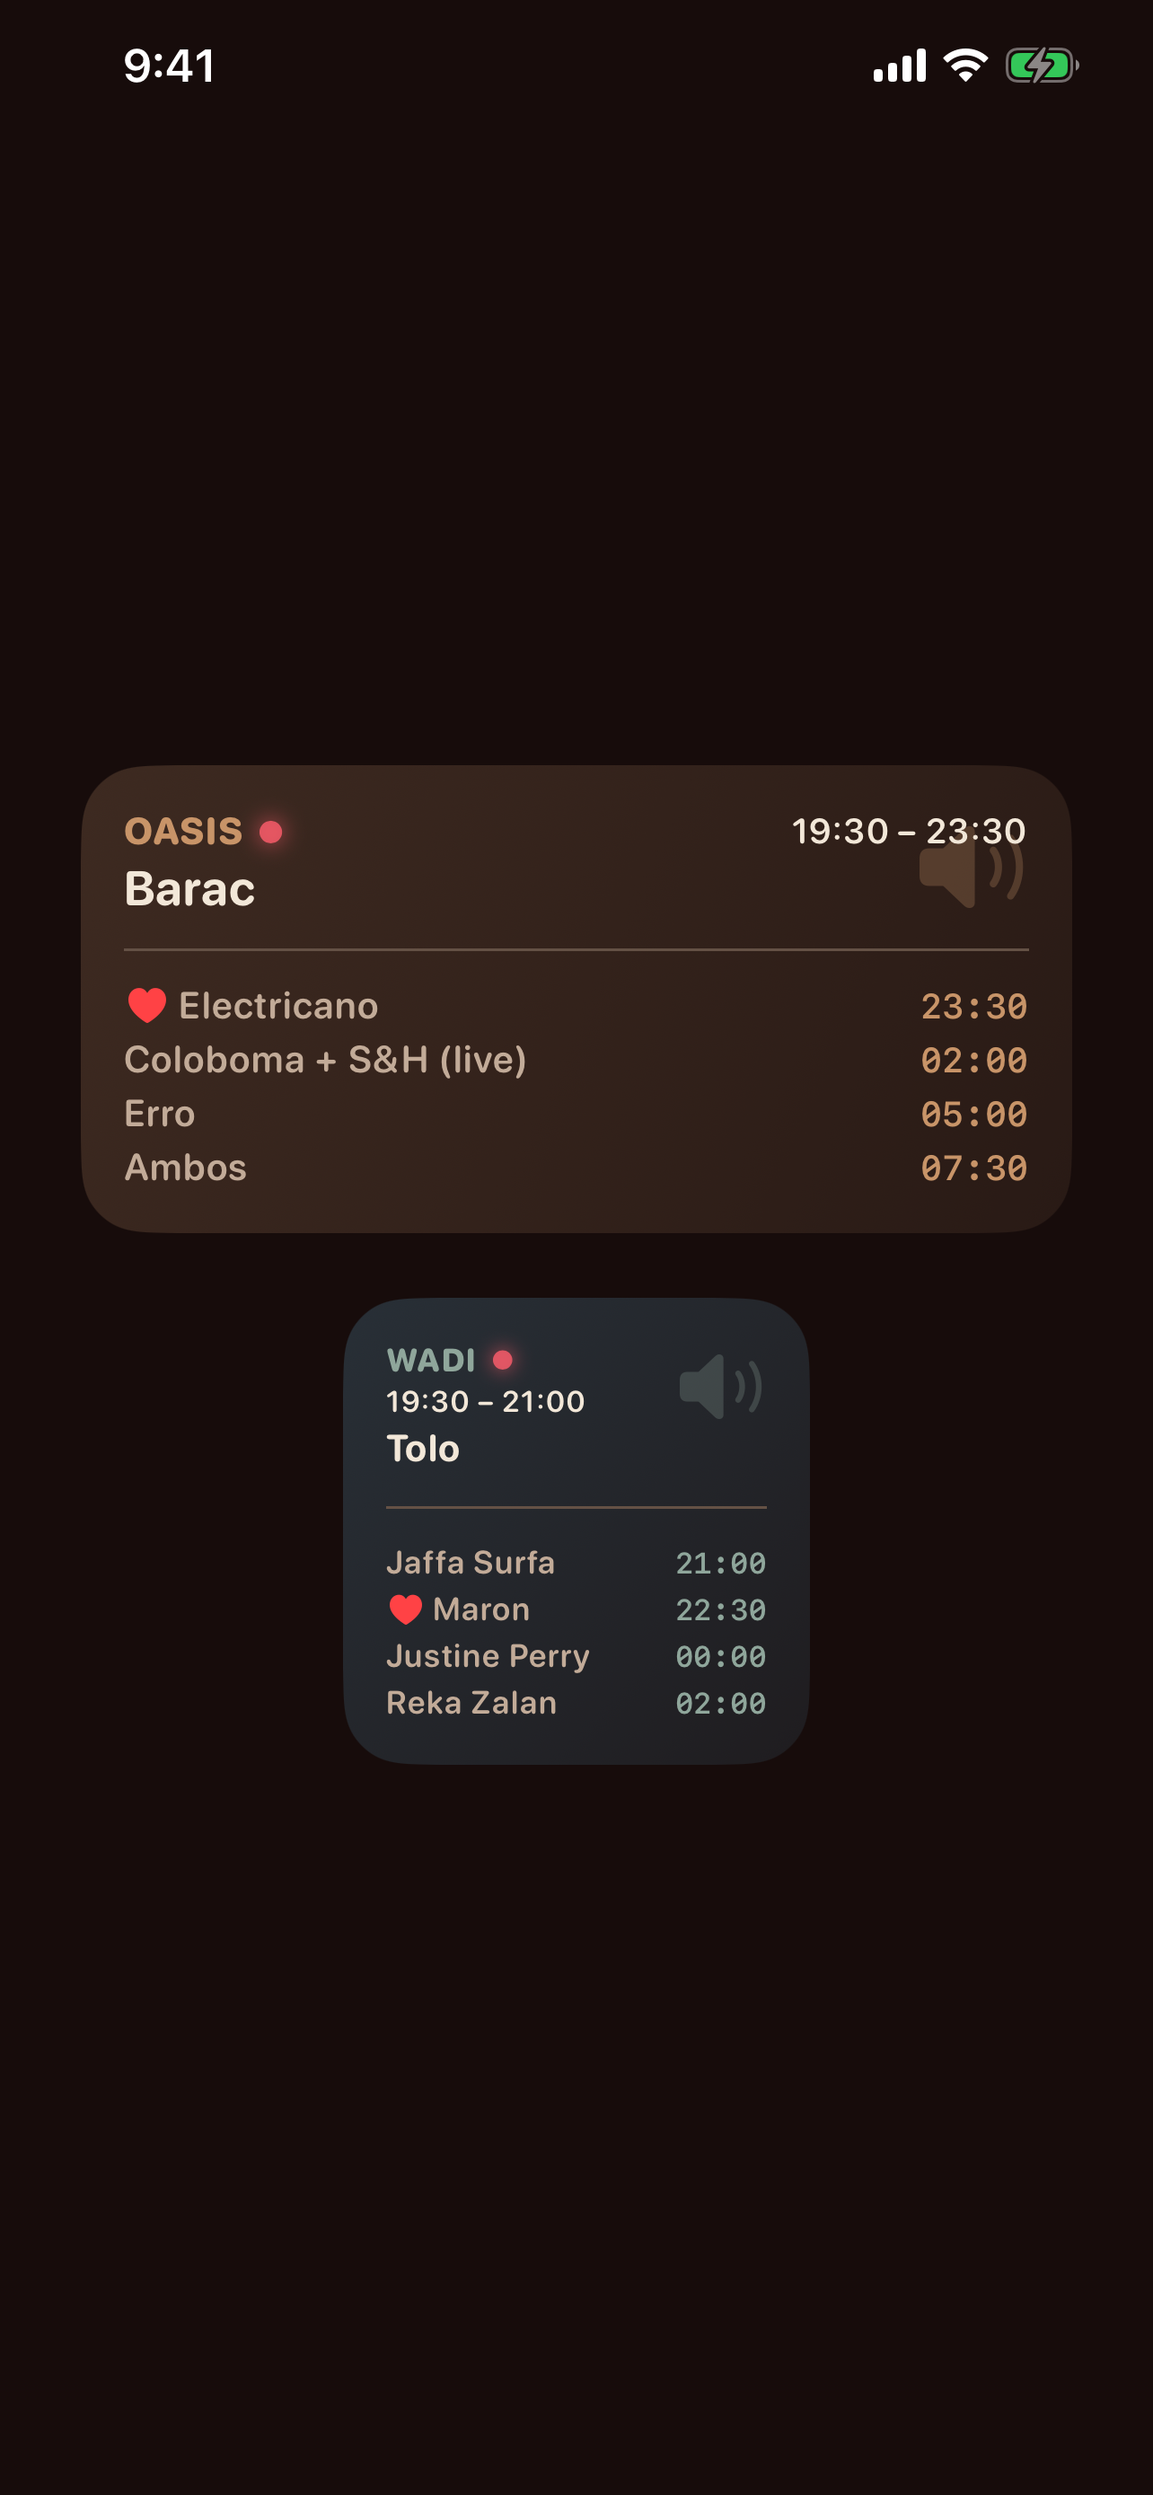
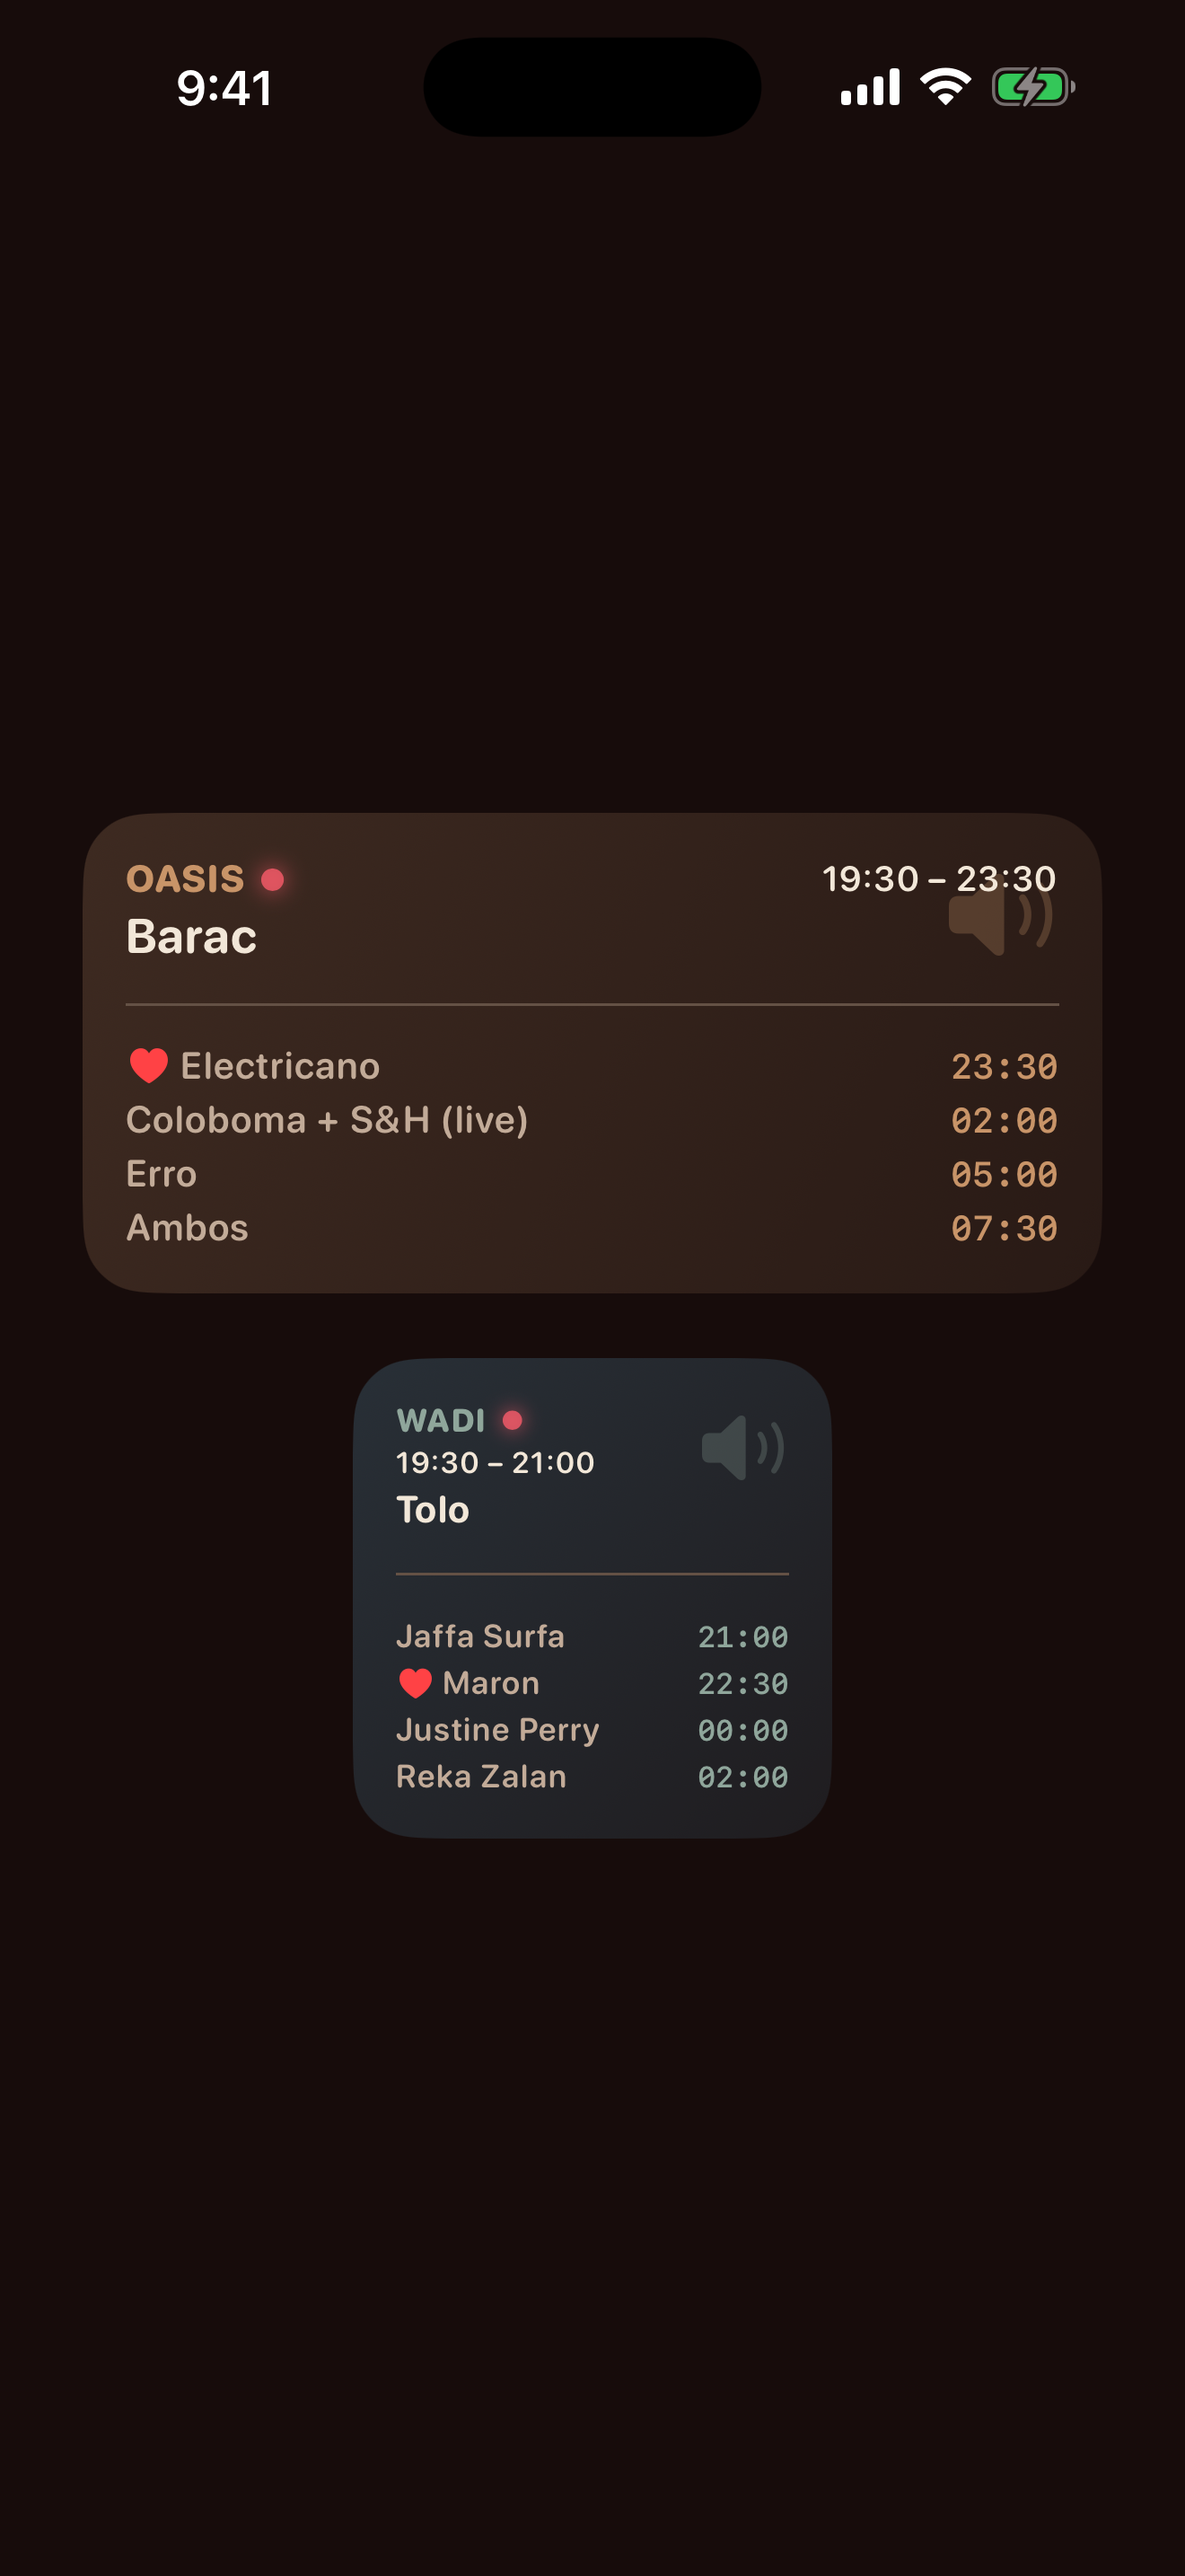
build(apple): capture App Store screenshots at 6.9 inch
App Store Connect requires the 1320×2868 slot (APP_IPHONE_67); the 6.5" captures
we had upload successfully and then fail asynchronous validation minutes later
with IMAGE_INCORRECT_DIMENSIONS, which reads as a silent success until you
re-query assetDeliveryState. The harness now shoots on an iPhone 17 Pro Max.

STORE_LISTING.md records the four things that blocked the 1.0 submission, since
the API answers all of them with the same opaque "not in valid state": missing
app availability, empty content-rights declaration, the screenshot size, and the
socialMedia age-rating answer the API never lists as required.

diff --git a/apple/STORE_LISTING.md b/apple/STORE_LISTING.md
@@ -6,6 +6,26 @@ limits. The privacy/support URLs point at the deployed pwa.
 > **Unofficial fan app.** Keep all wording referential ("guide for"); never imply
 > it is the official festival app. See `../CLAUDE.md` and the in-app disclaimer.
 
+## Submission gotchas (learned the hard way on 1.0)
+
+The API reports "appStoreVersions … is not in valid state" for *every* missing
+piece, without saying which. What actually blocked 1.0, in the order found:
+
+1. **App availability was never set** — a brand-new app record has no territories
+   at all (`GET /v2/appAvailabilities/<id>` → 404). Set it before anything else.
+2. **Content rights declaration was empty** — app-level
+   `contentRightsDeclaration`, not part of any version.
+3. **Screenshots must be 6.9" (1320×2868)** for the `APP_IPHONE_67` slot. A 6.5"
+   capture (1284×2778) *uploads fine* and only fails minutes later, asynchronously:
+   `assetDeliveryState.state = FAILED, IMAGE_INCORRECT_DIMENSIONS`. Always re-read
+   the state after uploading. 6.5" alone does not satisfy the requirement.
+   `screenshots.yaml` now captures on an iPhone 17 Pro Max for this reason.
+4. **Age rating: `socialMedia` and `userGeneratedContent`** must be answered, but
+   the API's "missing required attribute" error does *not* list `socialMedia` —
+   only the web questionnaire shows it. Check both after a PATCH.
+
+The watch slot `APP_WATCH_ULTRA` does accept the Ultra 3's 422×514 captures.
+
 ## URLs
 - **Privacy Policy URL:** https://microasis.torma.ai/privacy
 - **Support URL:** https://microasis.torma.ai/support
